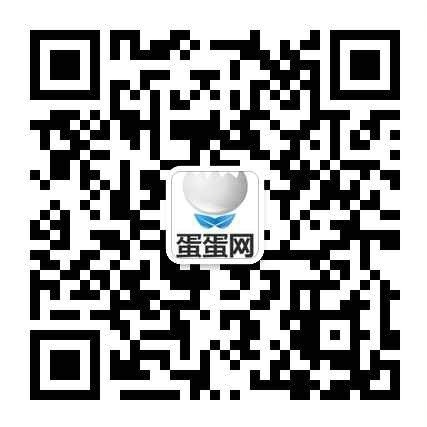
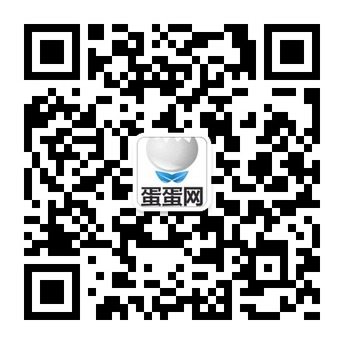
change qr image

diff --git a/templates/index.html b/templates/index.html
@@ -5,7 +5,9 @@
 </head>
 <body>
     <div>
-        <div id="qr" style="width: 427px;margin: auto auto;padding-top: 32px"><a href="http://www.oiegg.com/viewthread.php?tid=1272224"><img src="/static/img/qr.jpg"></a></div>
+        <div id="qr" style="width: 344px;margin: auto auto;padding-top: 32px">
+            <a href="http://www.oiegg.com/viewthread.php?tid=1272224"><img src="/static/img/qr.jpg"></a>
+        </div>
     </div>
 </body>
 </html>
